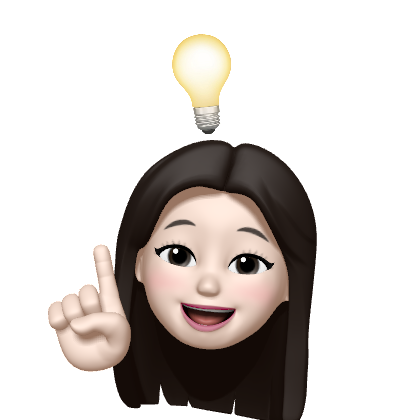
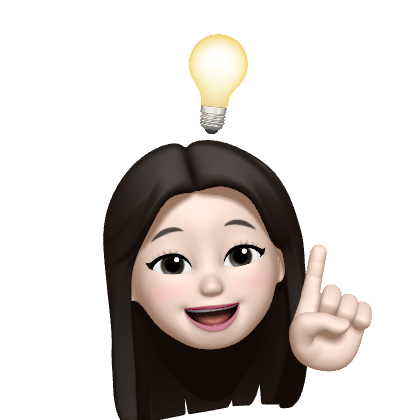
css 수정

Changed region(s): [[0.0929, 0.3405, 0.8976, 1.0], [0.4024, 0.0619, 0.5881, 0.3405], [0.5881, 0.7738, 0.619, 0.8048]]

diff --git a/css/style.css b/css/style.css
@@ -6,13 +6,12 @@
   --medium-grey-color: #616161;
   --dark-grey-color: #424242;
   --black-color: #212121;
-  --yellow-color: #fae100;
 
   /* size */
-  --title-font-size: 2.2vw;
-  --subject-font-size: 6vw;
+  --title-font-size: 1.5em;
+  --subject-font-size: 3em;
   --mobile-large-font-size: 5em;
-  --larger-font-size: 12vw;
+  --larger-font-size: 6em;
 
   --padding-size: .5em;
 
@@ -66,7 +65,6 @@ img {
   font-size: var(--larger-font-size);
   letter-spacing: .04em;
   margin-bottom: .5em;
-  background-color: var(--yellow-color);
 }
 
 #main1 #hello {
@@ -85,14 +83,14 @@ img {
   width: 20%;
   position: absolute;
   top: 0;
-  right: 0;
+  left: 0;
 }
 
 #main1 .me-shake {
   width: 30%;
   position: absolute;
   bottom: 0;
-  left: 0;
+  right: 0;
 }
 
 #main1 .fade-in {
@@ -103,7 +101,6 @@ img {
 /* MAIN2 - profile */
 #profile {
   background-color: var(--white-color);
-  height: 100vh;
 }
 
 .profile__introduce {
@@ -163,13 +160,7 @@ img {
 
 
 /* CONTACT */
-#contact {
-  height: 100vh;
-  background-image: url(../img/contact_bg.jpg);
-  background-repeat: no-repeat;
-  background-size: cover;
-  background-attachment: fixed;
-}
+#contact {}
 
 #contact .inner {
   height: 100%;
@@ -205,7 +196,7 @@ footer {
 
 footer .footer__copyright {
   display: block;
-  font-size: var(--title-font-size);
+  /* font-size: var(--title-font-size); */
   color: var(--light-grey-color);
   text-align: center;
 }
